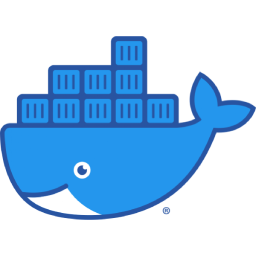
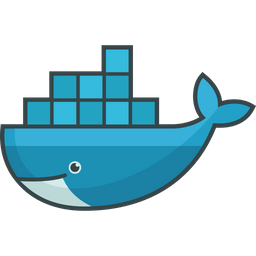
updated skills page

diff --git a/src/components/Skills.jsx b/src/components/Skills.jsx
@@ -17,6 +17,13 @@ const styles = {
   introTextContainer: {
     whiteSpace: 'pre-wrap',
   },
+  credits: {
+    display: 'flex',
+    flexDirection: 'horizontal',
+    width: '100%',
+    justifyContent: 'center',
+    fontSize: 10,
+  },
 };
 
 function Skills(props) {
@@ -62,6 +69,15 @@ function Skills(props) {
                   ))}
                 </div>
               ))}
+              <div style={styles.credits}>
+                <p>Icons by </p>
+                &nbsp;
+                <a href="https://iconscout.com/contributors/icon-54">Icon 54 </a>
+                &nbsp;
+                <p>at</p>
+                &nbsp;
+                <a href="https://iconscout.com"> IconScout</a>
+              </div>
             </Container>
           </div>
         </Fade>
